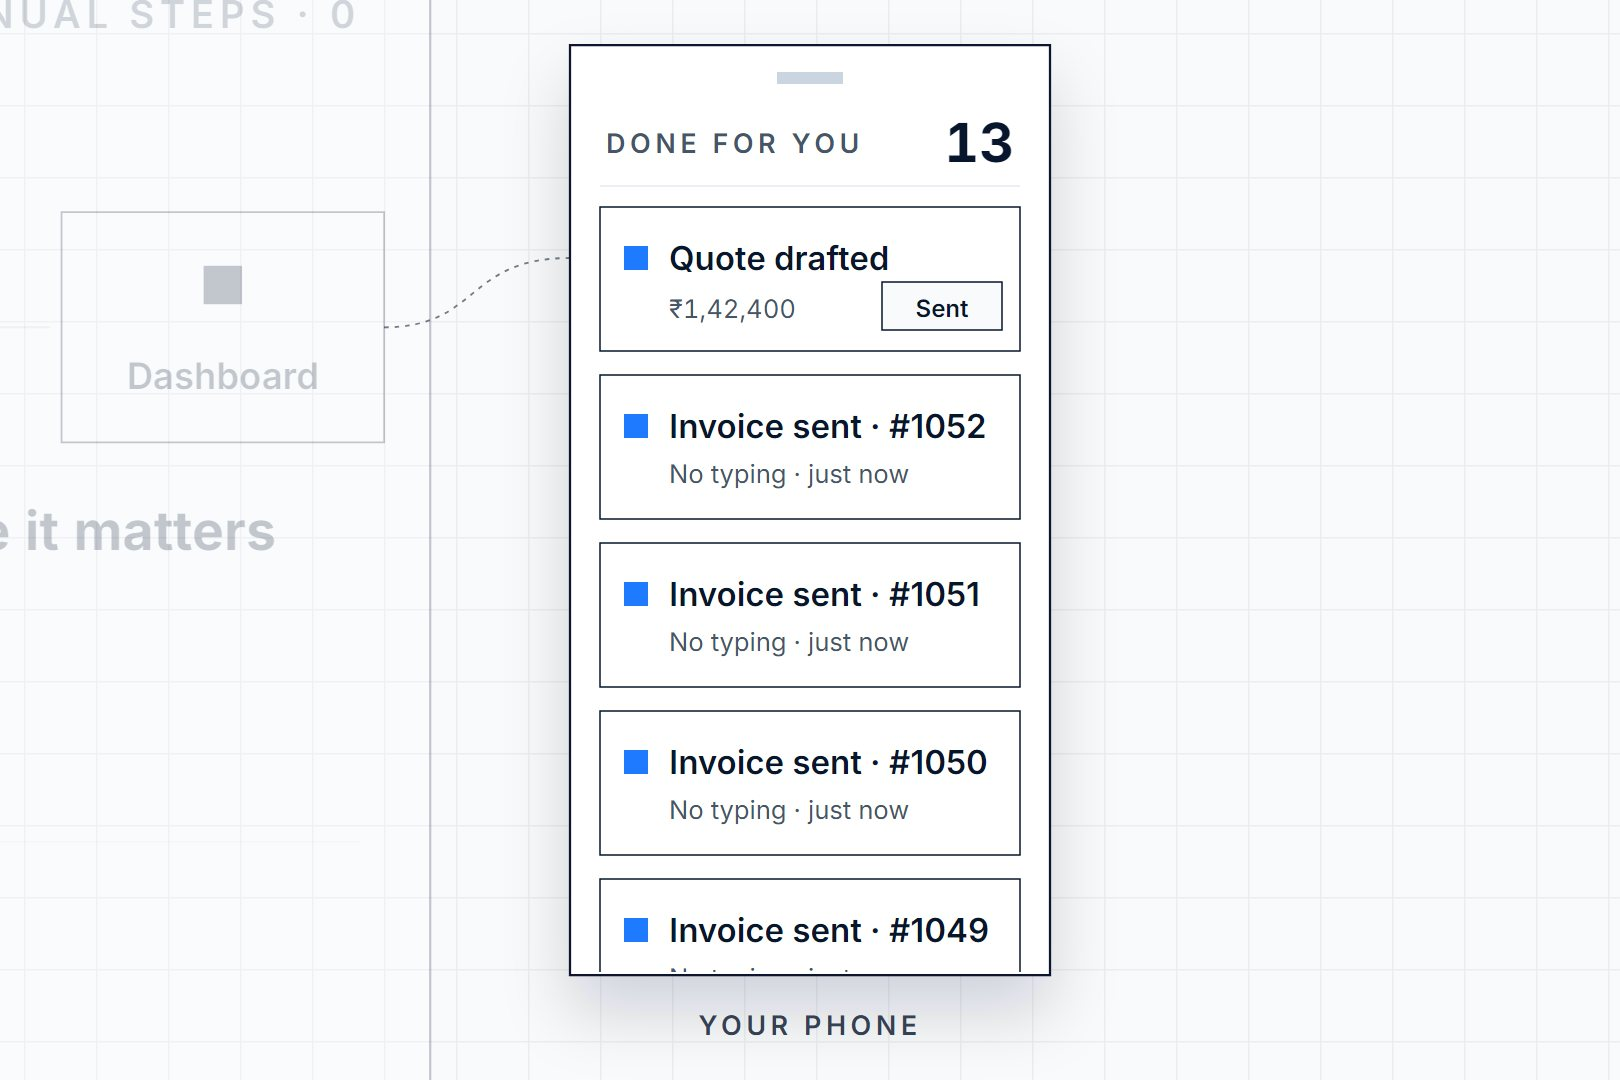
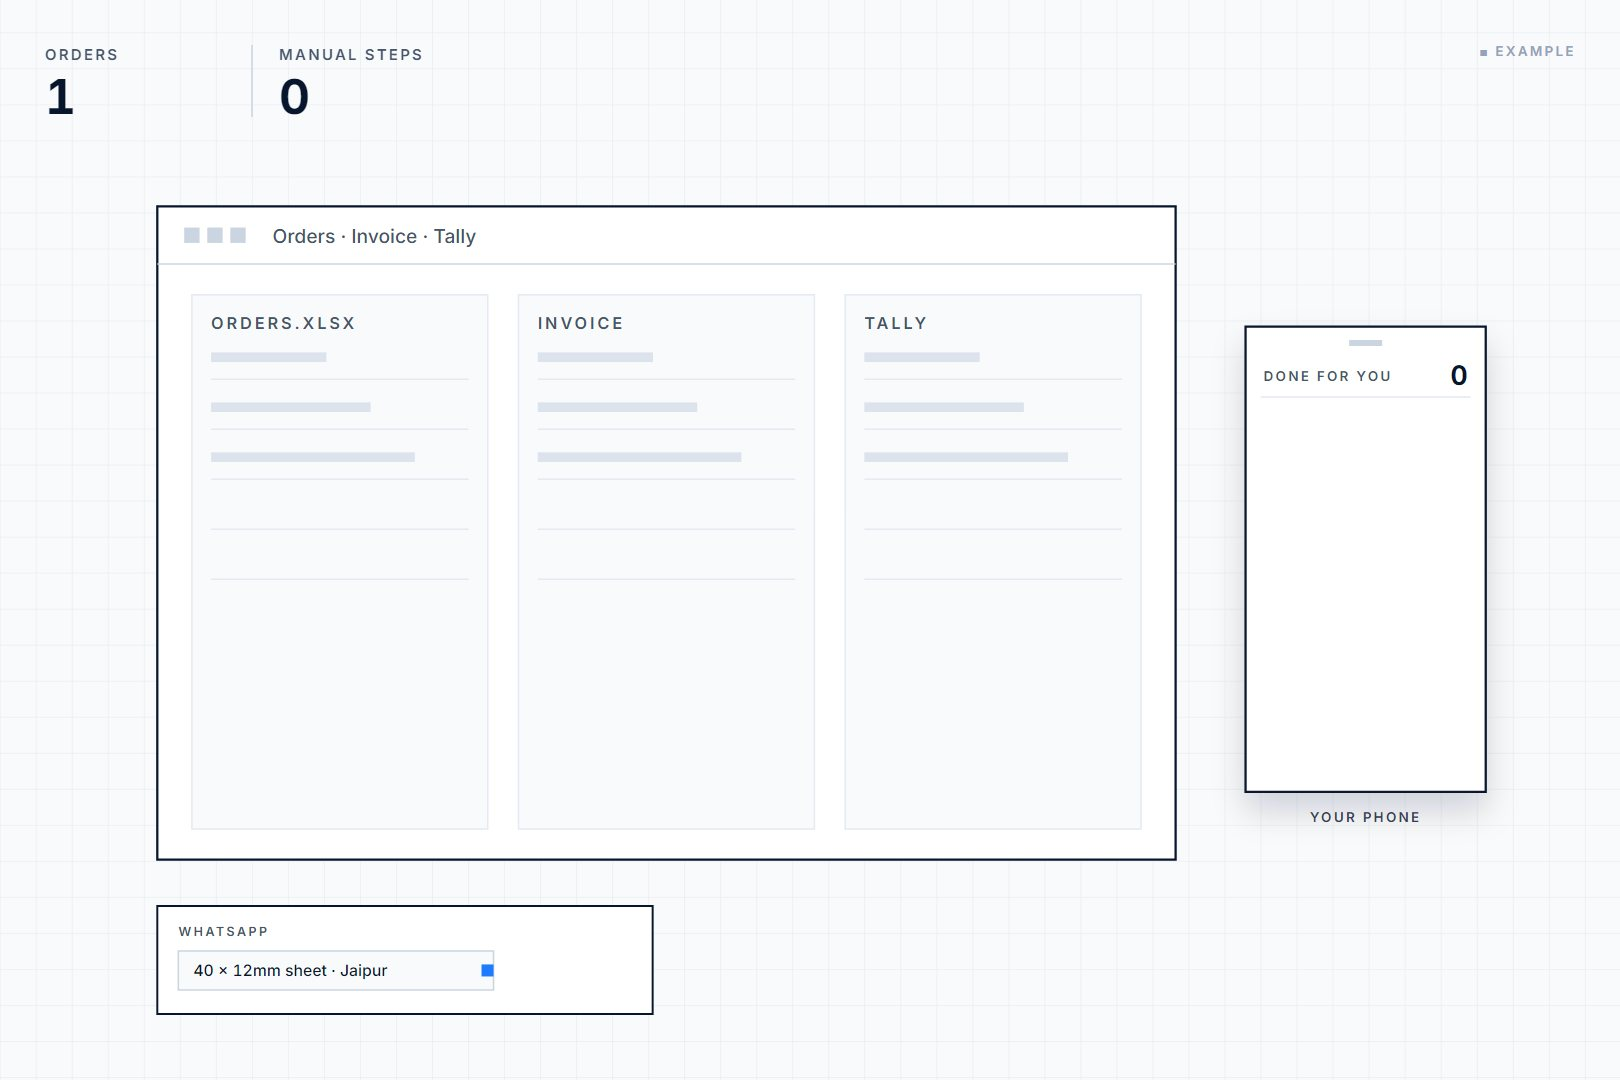
Start each hero video at the before, not the ending
Playback began at 24.6s, the old poster moment, so the first ~8s a visitor
saw were a static phone hold, the dive into the blue square and the pull
back out; the story only began at ~2.5s. preload="metadata" added
1.6s (4G) to 3.9s (3G) of buffering after play() on top of that.

- data-start and POSTER_T move to 2.4s on all three pages: the before is
  framed, HUD in, first action lands at ~2.8s.
- Posters re-cut at 2.4s via the new render.js --poster flag (still only,
  no re-encode); poster and first frame still match, so nothing jumps.
- preload="auto" so the opening seconds arrive during HTML parse.

Reduced-motion / no-JS still is now the problem scene rather than the
finished phone close-up.

diff --git a/motion/render.js b/motion/render.js
@@ -2,6 +2,7 @@
 //
 //   node motion/render.js websites                 → assets/video/websites-hero.{mp4,webm,jpg}
 //   node motion/render.js websites --frames 0 6 13 → tmp_websites_<t>.png stills to review timing
+//   node motion/render.js websites --poster        → only assets/video/websites-hero.jpg, from POSTER_T
 //
 // The scene is stepped one exact frame at a time (window.render(t)) rather
 // than screen-recorded, so the output never stutters or drops frames, and each
@@ -13,7 +14,7 @@ const fs = require('fs');
 const { pathToFileURL } = require('url');
 
 const name = process.argv[2];
-if (!name) { console.error('usage: node motion/render.js <scene> [--frames t1 t2 …]'); process.exit(1); }
+if (!name) { console.error('usage: node motion/render.js <scene> [--frames t1 t2 …] [--poster]'); process.exit(1); }
 const FPS = 30, SCALE = 1.5;
 // x264 quality; VP9 runs 12 higher on its own scale. A scene that moves the
 // camera every frame costs far more bits than one that doesn't — 27 keeps flat
@@ -51,7 +52,13 @@ const outDir = path.join(root, 'assets', 'video');
   fs.mkdirSync(outDir, { recursive: true });
   // The poster doubles as the reduced-motion still, and the page starts
   // playback at the same moment so nothing jumps when the video takes over.
+  // --poster re-cuts just this still when POSTER_T moves; the video is unchanged.
   fs.writeFileSync(path.join(outDir, `${name}-hero.jpg`), await shot(cfg.poster, { type: 'jpeg', quality: 84 }));
+  if (process.argv.includes('--poster')) {
+    console.log(`poster ${name}-hero.jpg (t=${cfg.poster}s)`);
+    await br.close();
+    return;
+  }
 
   // One pass, two files. H.264 is decoded in hardware almost everywhere, so it
   // is listed first; level 4.0 is all 1080p30 needs and keeps older phone

diff --git a/websites.html b/websites.html
@@ -189,9 +189,13 @@
   <!-- Silent 30s 3:2 loop beside the headline, rendered from
        motion/websites.html. site.js starts it (no autoplay attribute), so
        reduced motion and no-JS keep the poster. data-start is the poster's
-       moment in the loop, so playback picks up exactly where the still is. -->
+       moment in the loop, so playback picks up exactly where the still is:
+       2.4s, the "before" just framed, so the story moves within half a second
+       of the first frame rather than opening on the ending. preload="auto"
+       lets the browser fetch those first seconds while the page is still
+       parsing. -->
   <figure class="hero-video">
-    <video muted loop playsinline preload="metadata" width="1620" height="1080" poster="assets/video/websites-hero.jpg" data-start="24.6" aria-describedby="hv-web">
+    <video muted loop playsinline preload="auto" width="1620" height="1080" poster="assets/video/websites-hero.jpg" data-start="2.4" aria-describedby="hv-web">
       <!-- Exact codecs, so a browser that cannot decode one skips straight to the
            next instead of trying and stalling. H.264 first: hardware-decoded
            almost everywhere. -->

diff --git a/automation.html b/automation.html
@@ -189,9 +189,12 @@
   <!-- Silent 30s 3:2 loop beside the headline, rendered from motion/automation.html.
        site.js starts it (no autoplay attribute), so reduced motion and no-JS
        keep the poster. data-start is the poster's moment in the loop, so
-       playback picks up exactly where the still is. -->
+       playback picks up exactly where the still is: 2.4s, the "before" just
+       framed, so the story moves within half a second of the first frame
+       rather than opening on the ending. preload="auto" lets the browser
+       fetch those first seconds while the page is still parsing. -->
   <figure class="hero-video">
-    <video muted loop playsinline preload="metadata" width="1620" height="1080" poster="assets/video/automation-hero.jpg" data-start="24.6" aria-describedby="hv-automation">
+    <video muted loop playsinline preload="auto" width="1620" height="1080" poster="assets/video/automation-hero.jpg" data-start="2.4" aria-describedby="hv-automation">
       <!-- Exact codecs, so a browser that cannot decode one skips straight to the
            next instead of trying and stalling. H.264 first: hardware-decoded
            almost everywhere. -->

diff --git a/dashboards.html b/dashboards.html
@@ -187,9 +187,12 @@
   <!-- Silent 30s 3:2 loop beside the headline, rendered from motion/dashboards.html.
        site.js starts it (no autoplay attribute), so reduced motion and no-JS
        keep the poster. data-start is the poster's moment in the loop, so
-       playback picks up exactly where the still is. -->
+       playback picks up exactly where the still is: 2.4s, the "before" just
+       framed, so the story moves within half a second of the first frame
+       rather than opening on the ending. preload="auto" lets the browser
+       fetch those first seconds while the page is still parsing. -->
   <figure class="hero-video">
-    <video muted loop playsinline preload="metadata" width="1620" height="1080" poster="assets/video/dashboards-hero.jpg" data-start="24.6" aria-describedby="hv-dashboards">
+    <video muted loop playsinline preload="auto" width="1620" height="1080" poster="assets/video/dashboards-hero.jpg" data-start="2.4" aria-describedby="hv-dashboards">
       <!-- Exact codecs, so a browser that cannot decode one skips straight to the
            next instead of trying and stalling. H.264 first: hardware-decoded
            almost everywhere. -->

diff --git a/assets/js/site.js b/assets/js/site.js
@@ -263,11 +263,12 @@
     var v = fig.querySelector('video'), btn = fig.querySelector('.hv-toggle');
     if (!v) return;
     v.muted = true;                 // a property, not just the attribute, or some browsers refuse to start it
-    // The poster is a moment from the middle of the loop, so playback starts
-    // there instead of at 0 — otherwise the still would jump to a different
-    // frame the instant the video took over. A seek only sticks once the
-    // browser has the metadata (Edge silently drops one set earlier), so it
-    // happens on the way into the first play.
+    // The poster is a moment inside the loop (2.4s, the "before" just framed,
+    // not the blue-square opening), so playback starts there instead of at 0 —
+    // otherwise the still would jump to a different frame the instant the
+    // video took over. A seek only sticks once the browser has the metadata
+    // (Edge silently drops one set earlier), so it happens on the way into the
+    // first play.
     var from = parseFloat(v.getAttribute('data-start')) || 0, seeked = !(from > 0);
     var held = reduce, visible = false;
     function sync(){

diff --git a/motion/automation.html b/motion/automation.html
@@ -403,7 +403,7 @@
     $('pCnt').textContent = String(landed);
   }
 
-  window.POSTER_T = 24.6;
+  window.POSTER_T = 2.4;
   window.SIZE = [1080, 720];
   M.boot(render, DUR);
 })();

diff --git a/motion/dashboards.html b/motion/dashboards.html
@@ -429,7 +429,7 @@
     $('pCnt').textContent = String(landed);
   }
 
-  window.POSTER_T = 24.6;
+  window.POSTER_T = 2.4;
   window.SIZE = [1080, 720];
   M.boot(render, DUR);
 })();

diff --git a/motion/websites.html b/motion/websites.html
@@ -377,7 +377,7 @@
     $('pEnq').textContent = String(landed);
   }
 
-  window.POSTER_T = 24.6;
+  window.POSTER_T = 2.4;
   window.SIZE = [1080, 720];
   M.boot(render, DUR);
 })();

diff --git a/PROJECT_NOTES.md b/PROJECT_NOTES.md
@@ -122,6 +122,7 @@ Nav is deliberately short: Solutions / Work / How it works / About / FAQ, plus "
     - Homepage value-card stills lean in (`scale(1.04)`, 700ms, inside a new `.vc-media` clip that carries the old border).
     - Every page’s `<noscript>` block now hands over finished heading states (and dashboards’ bars).
     - Checks: `tmp_polish.js`, `tmp_alive_check.js`.
+- **Hero videos start at the "before", not the ending (2026-09-19).** Owner’s note: the loop looked like it started late, and visitors with a short attention span would scroll on before it moved. Measured in Chromium against `tmp_serve.js`: playback began at 24.6 (the old poster), so the first ~8s were the phone hold (24.6–26.5, visually identical to the poster), the dive into the blue square and the pull back out — the story only began at ~2.5. On top of that `preload="metadata"` meant nothing was fetched until `site.js` called `play()` after DOMContentLoaded, then a range fetch from 24.6: first frame moved 1.6s after `play()` on 4G, 3.9s on 3G. Fix: `data-start` and `POSTER_T` are now **2.4** on all three (the "before" fully framed, HUD in; the first action — cursor, typing, the Monday sales figure — lands at ~2.8), posters re-cut with the new `node motion/render.js <page> --poster` (poster only, no re-encode), and `preload="auto"` so the first seconds arrive while the page is still parsing. Result: story moves 0.4s after the first frame; the buffering gap after `play()` is 0.4–1.0s on 4G and 1.9–2.6s on 3G (page assets share the pipe — the rest is file size). Trade: the reduced-motion / no-JS still is now the problem (three tabs, order arriving, empty phone) rather than the finished phone close-up; the `#value` cards keep their own `-card.jpg` stills. The dive → square → pull-back still plays once per loop as the breath between after and before. `tmp_video.js` asserts the new start.
 - **Hero videos: the navy turn is now a Dayam Insights title card (2026-09-19).** Owner’s note: the plain navy wipe didn’t say that talking to us is what changes the process. On all three scenes the turn is now a full-frame card in screen space (`#turn` after the HUD: `#card` + `#lockup`, the header lockup in white on navy, centred on 540,360 by getBBox). Card sweeps in 7.4–8.0, lockup rises 7.9–8.45 and holds to 9.0, card sweeps out right 9.15–9.8 with the rebuilt window already behind it (`#before` hidden and `rebuilt` flips at 8.3, under the card). Everything that followed the old wipe moved ~1s later to make room: `#after .ln` 8.45 → 9.55, wires later too. Per scene: automation runs still start at 11.2. Dashboards resets the day under the card (the rebuilt screen opens on MON, not WED), days/live start at 10.9 over 10.6s, KPIs from 11.2, the k3 highlight at 12.4–13.4 and the first alert at 13.4. Websites’ first two landings went 12.3/13.9 → 12.9/14.25 so no converting visitor spawns under the card, and the rhythm still starts slow and speeds up. Opening, ending, loop seam and posters are unchanged. `motion/*.html` are CRLF on disk, so patch scripts normalise to LF, apply, and write CRLF back.
 - **Homepage rebuilt as a hub (2026-09-19).** Owner’s brief: say what Dayam Insights is, where it adds value, then send each reader to their page. Before: 10,217px with three service blocks (4,086px) whose figures were identical to the service pages and whose copy was 10–60% verbatim. After: 6,994px — hero 630 · about 659 · value 1,071 · signal 2,732 · form 1,262.
   - **`#about`** is assembled only from lines the site already committed to (schema description and audience, FAQ promises, footer blurb, how-we-work): a statement beside three facts — Built for / How we work / What you keep. No founder facts exist, so none are implied. `.about-grid` / `.about-facts` are new, small, on the site’s tokens.
@@ -139,7 +140,7 @@ Nav is deliberately short: Solutions / Work / How it works / About / FAQ, plus "
   - **websites**: visitors compliment a pretty site and turn back; the one who would have enquired searches, greys out, leaves; rebuilt as a desktop layout; visitors become "New enquiry" on the phone. **dashboards**: a cursor copies numbers by hand from Billing/Stock/Excel/WhatsApp into a weekly report, Monday to Wednesday, two totals disagree; rebuilt as one live screen wired to the same four sources; days tick, pulses run the wires, bars rise, alerts land ("Low stock · 5 items"), a bar opens into its branches. **automation**: one WhatsApp order typed into Orders/Invoice/Tally three times, a digit goes wrong, "Wrong size?"; rebuilt as the flow WhatsApp→Order→Invoice→Payment→Dashboard; orders run through on their own ("Invoice sent"), the log scrolls, and the last one is a question the assistant drafts a quote for — a person taps Approve.
   - **Why 3:2, not square.** The first cut was square; the owner asked for the video to take more space, then to be wider. A square can only get wider by getting taller (680px at 1440 was already most of the viewport), so the frame went landscape and the phone moved beside the window instead of overlapping it. Column split is 1fr copy / 1.6fr video: 722×482 at 1440. The headline is measured, not guessed: `clamp(30px,9.2vw,56px)` on phones and `clamp(34px,3.75vw - 3px,44px)` above 1000 — all three lines stay whole on all three pages from 360 to 1920. The five-sector row never fits the narrow column on one line and a 4+1 wrap orphans, so it is a fixed 3+2 grid there.
   - **Render**: `node motion/render.js <page>` → `assets/video/<page>-hero.{mp4,webm,jpg}` at 1620×1080 (H.264 High 4.0 CRF 27, VP9 CRF 39; each ~2.3 MB / ~2.7 MB / ~100 KB). Needs ffmpeg on PATH, network for Inter and the GSAP CDN (render-time only; the site does not load GSAP). `--frames t1 t2` for review stills. Scenes declare `window.SIZE` and `window.POSTER_T`.
-  - **On the page**: `figure.hero-video` in the grid’s second column with `data-start="24.6"`; the seek is applied on the way into the first play once metadata exists (Edge drops one set earlier) and **requires HTTP Range support** — GitHub Pages has it, and `tmp_serve.js` now answers 206s too, because without them Chromium clamps the seek to 0 and the poster jumps. No `autoplay` attribute; `site.js` starts it, rests it off screen, reduced motion holds the poster with Play offered. Frame clip-reveals first (media-first choreography from the cinematic-motion skill), then the three masked headline lines, copy, CTA, sectors.
+  - **On the page**: `figure.hero-video` in the grid’s second column with `data-start="2.4"` (was 24.6 until 2026-09-19, see above); the seek is applied on the way into the first play once metadata exists (Edge drops one set earlier) and **requires HTTP Range support** — GitHub Pages has it, and `tmp_serve.js` now answers 206s too, because without them Chromium clamps the seek to 0 and the poster jumps. No `autoplay` attribute; `site.js` starts it, rests it off screen, reduced motion holds the poster with Play offered. Frame clip-reveals first (media-first choreography from the cinematic-motion skill), then the three masked headline lines, copy, CTA, sectors.
   - Tested on all three pages in Playwright Chromium (WebM path) and real Edge (MP4 path): starts at 24.6s, pause/resume, rests off screen, loops, reduced motion holds, 3:2 box reserved with the video blocked. `PAGE=<file> [CHANNEL=msedge] node tmp_video.js`.
 - **Logo opened a folder listing (2026-09-18).** Every inner page linked home with `./#top` (logo, header and footer) and to the homepage form with `./#contact`. Served, `./` is the homepage; opened from disk it resolves to the folder (`website/#top`), so the browser listed the directory — the "sometimes" was server versus file. All 18 now name `index.html`; six others that pointed at homepage teasers (the websites cross-sell, three how-we-work tool chips) now go to the service pages. Verified by clicking the header and footer logo on every page opened as `file://`.
 - **`work.html` removed (2026-09-18, owner’s call).** Every example project it held now sits on its own service page — retail on `dashboards.html#retail`, distribution and services on `automation.html#distribution` / `#services`, the clinic website on `websites.html#clinic` — so the page only duplicated them. It had never reached `main` (only `index.html` is live), so no inbound links or redirect to worry about; `git checkout -- work.html` restores it. Removed with it: the Work nav link on every page, the "The work" footer link, the sitemap entry, the "See it drawn as a system" links on the service pages (the drawing is right beside them) and the "other kinds of project" link in each proof row. The homepage example rows now point at the case on its service page. Its blueprint CSS (`.bp`, `.res-list`, `.res-*`) stays: the service pages use it. The centred `.res-note` default and `.res-grid` are now unused.
